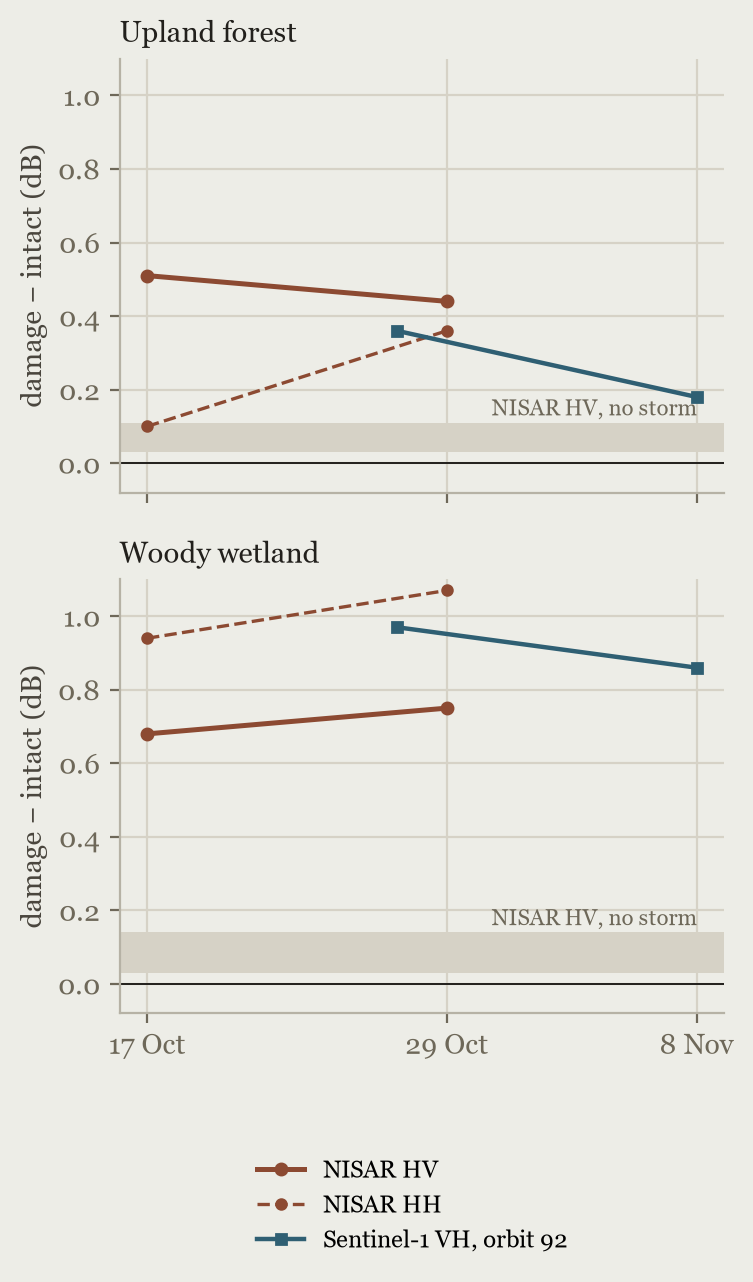
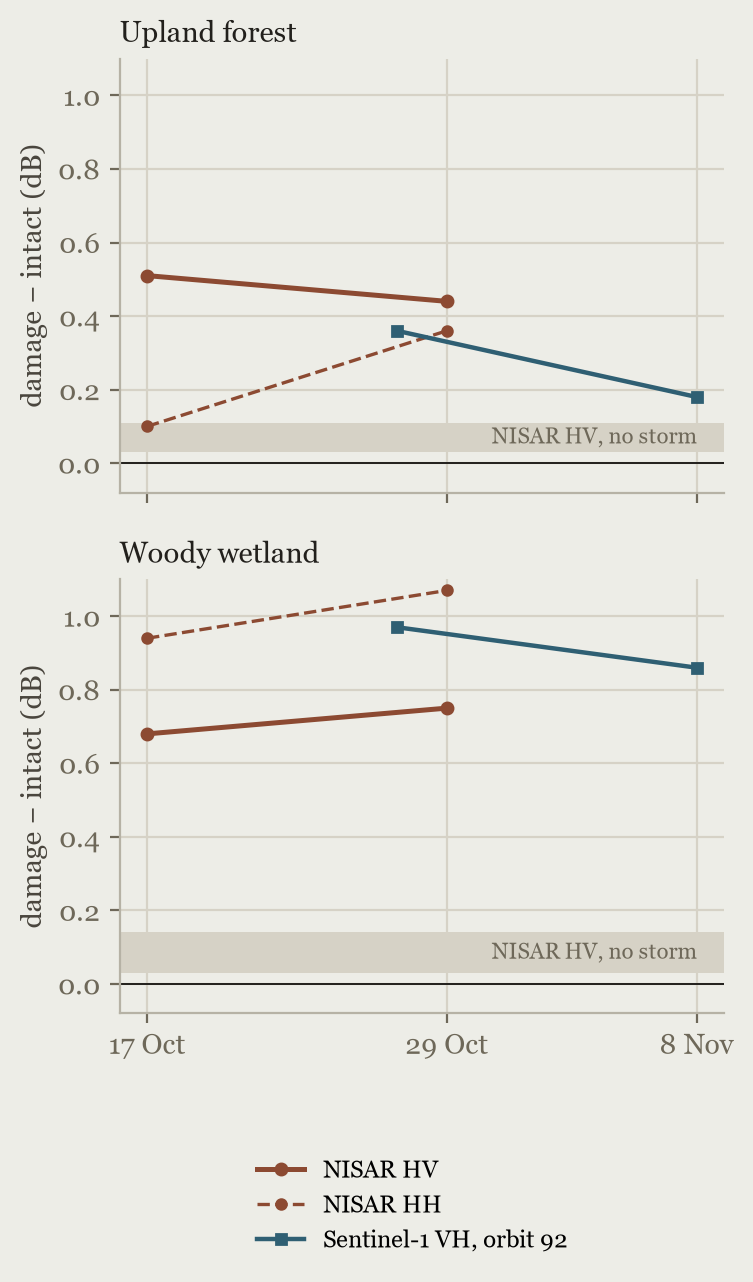
Site charts: storm-vs-control legend moved above the bars (one row wide, stacked on phone); wind legend above the plot, Jay label with leader; persistence no-storm label inside its band; automatic overlap check in site_figures.py

Changed region(s): [[0.6414, 0.6864, 0.9163, 0.7488], [0.6414, 0.312, 0.9163, 0.3432]]

diff --git a/site/index.html b/site/index.html
@@ -361,8 +361,8 @@
     <p class="auc-note">AUC measures how well a layer separates damaged from intact forest; 0.5 is no better than chance and 1.0 is perfect.</p>
     <figure>
       <picture>
-        <source media="(max-width: 620px)" srcset="figures/storm_vs_control_narrow.png" width="761" height="976">
-        <img class="fig" src="figures/storm_vs_control.png" alt="Bar chart. NISAR HV separates damaged from intact forest with AUC 0.82 at 100 m across the storm, against 0.57 and 0.58 for two windows with no storm; on upland forest 0.72 against 0.52 and 0.58." width="1257" height="611" loading="lazy">
+        <source media="(max-width: 620px)" srcset="figures/storm_vs_control_narrow.png" width="761" height="928">
+        <img class="fig" src="figures/storm_vs_control.png" alt="Bar chart. NISAR HV separates damaged from intact forest with AUC 0.82 at 100 m across the storm, against 0.57 and 0.58 for two windows with no storm; on upland forest 0.72 against 0.52 and 0.58." width="1337" height="685" loading="lazy">
       </picture>
       <p class="caption">How well NISAR HV change on one ascending track separates damaged from intact forest (0.5 is chance), for the 12 days across the storm and for two 12-day windows with no storm, with the held-out areas left out. Upland means blocks that are at least 90 percent pine or hardwood on ground more than 5 m above the nearest stream.</p>
     </figure>
@@ -389,7 +389,7 @@
     <figure>
       <picture>
         <source media="(max-width: 620px)" srcset="figures/wind_distance_narrow.png" width="838" height="913">
-        <img class="fig" src="figures/wind_distance.png" alt="Line chart of the share of forest in the damage mask by distance from the track on both sides. West of the track it peaks at about 30 percent 60 to 65 km out; east of the track it stays below 1 percent in upland forest, with a small wetland rise 55 to 70 km out. The three strongest gust stations are 44 to 56 km west." width="1386" height="692" loading="lazy">
+        <img class="fig" src="figures/wind_distance.png" alt="Line chart of the share of forest in the damage mask by distance from the track on both sides. West of the track it peaks at about 30 percent 60 to 65 km out; east of the track it stays below 1 percent in upland forest, with a small wetland rise 55 to 70 km out. The three strongest gust stations are 44 to 56 km west." width="1386" height="740" loading="lazy">
       </picture>
       <p class="caption">Share of forest in the Sentinel-2 damage mask by distance from the NHC best track, in 5 km bins, on both sides of the track, with the held-out areas left out. Triangles are station peak gusts; hollow ones reported fewer than ten times during the storm and may have failed.</p>
     </figure>

diff --git a/scripts/site_figures.py b/scripts/site_figures.py
@@ -2,26 +2,68 @@
 From docs/site/site_numbers.json (controls numbers recomputed with the held-out block and aerial tip excluded) and
 docs/wind/wind.json (also excluding them). Writes site/figures/*.png at 2x."""
 import json, os
-import numpy as np, matplotlib
+import numpy as np, matplotlib, matplotlib.text
 matplotlib.use("Agg"); import matplotlib.pyplot as plt
 os.makedirs("site/figures", exist_ok=True)
 PAPER, INK, BODY, MUTED, RULE, HAIR, ACC, MOD, WET = "#EDEDE7", "#22201C", "#4A463E", "#6E6859", "#B6B2A5", "#D6D2C6", "#7D5F33", "#8C4A32", "#2F5F73"
 plt.rcParams.update({"font.family": ["Georgia", "DejaVu Serif"], "font.size": 10.5, "axes.facecolor": PAPER, "figure.facecolor": PAPER, "savefig.facecolor": PAPER,
                      "axes.edgecolor": RULE, "axes.labelcolor": BODY, "xtick.color": MUTED, "ytick.color": MUTED, "axes.spines.top": False, "axes.spines.right": False,
                      "axes.grid": True, "grid.color": HAIR, "grid.linewidth": 0.8, "axes.axisbelow": True, "legend.frameon": False})
-def save(fig, name): fig.savefig(f"site/figures/{name}", dpi=200, bbox_inches="tight"); plt.close(fig)
+def check(fig, name):
+    """Overlap check before saving: every legend must sit outside every plot area and inside the figure's width; no two
+    texts may overlap; no in-plot text may touch a bar, a data line or marker, or cross the axes frame. Grid lines are ignored."""
+    fig.canvas.draw(); r = fig.canvas.get_renderer(); probs = []
+    axes = fig.axes; abox = [a.get_window_extent(r) for a in axes]
+    legs = [l for l in [a.get_legend() for a in axes] + fig.legends if l is not None]
+    texts = []
+    for a in axes:
+        texts += [(t, "plot") for t in a.texts] + [(t.label1 if side == 1 else t.label2, "tick") for ax_, (lo, hi) in ((a.xaxis, sorted(a.get_xlim())), (a.yaxis, sorted(a.get_ylim()))) if ax_.get_visible() for t in ax_.get_major_ticks() if lo - 1e-9 <= t.get_loc() <= hi + 1e-9 for side in (1, 2) if (t.label1 if side == 1 else t.label2).get_visible()] + [(t, "label") for t in (a.xaxis.label, a.yaxis.label, a.title)]
+    texts += [(t, "fig") for t in fig.texts]
+    for l in legs: texts += [(t, "legend") for t in l.get_texts()]
+    texts = [(t, k, matplotlib.text.Text.get_window_extent(t, r)) for t, k in texts if t.get_visible() and t.get_text().strip()]
+    for l in legs:
+        lb = l.get_window_extent(r)
+        for a, b in zip(axes, abox):
+            if lb.overlaps(b): probs.append(f"legend overlaps plot area of '{a.get_title() or a.get_ylabel()}'")
+        for t, k, tb in texts:
+            if k != "legend" and lb.overlaps(tb): probs.append(f"legend overlaps text '{t.get_text()}'")
+        fw = fig.bbox.width; x0 = min(b.x0 for b in abox + [t[2] for t in texts if t[1] != "legend"])
+        x1 = max(b.x1 for b in abox + [t[2] for t in texts if t[1] != "legend"])
+        if lb.x0 < x0 - 1 or lb.x1 > x1 + 1: probs.append(f"legend runs past the chart edge ({lb.x0:.0f}-{lb.x1:.0f} vs {x0:.0f}-{x1:.0f} px)")
+    for i in range(len(texts)):
+        for j in range(i + 1, len(texts)):
+            if texts[i][2].overlaps(texts[j][2]): probs.append(f"text '{texts[i][0].get_text()}' overlaps '{texts[j][0].get_text()}'")
+    for t, k, tb in texts:
+        if k != "plot": continue
+        ax_ = t.axes; b = ax_.get_window_extent(r)
+        if not (b.x0 <= tb.x0 and tb.x1 <= b.x1 and b.y0 <= tb.y0 and tb.y1 <= b.y1): probs.append(f"text '{t.get_text()}' crosses the axes frame")
+        for a in axes:
+            for p_ in a.patches:
+                if p_.get_window_extent(r).overlaps(tb) and p_.get_window_extent(r).height < b.height * 0.99 and p_.get_window_extent(r).width < b.width * 0.99:
+                    probs.append(f"text '{t.get_text()}' touches a bar")
+            for ln in a.lines:
+                if hasattr(t, "xy") and len(ln.get_xdata()) == 1 and np.allclose([ln.get_xdata()[0], ln.get_ydata()[0]], t.xy): continue   # its own marker
+                xy = ln.get_transform().transform(np.column_stack(ln.get_data()).astype(float))
+                pts = np.concatenate([np.linspace(xy[q], xy[q + 1], 200) for q in range(len(xy) - 1)]) if len(xy) > 1 and ln.get_linestyle() not in ("None", "") else xy
+                rad = (ln.get_markersize() / 2 if ln.get_marker() not in (None, "None", "") else 0) * fig.dpi / 72 + 1.5 * fig.dpi / 72   # 1.5 pt clearance
+                hit = ((pts[:, 0] > tb.x0 - rad) & (pts[:, 0] < tb.x1 + rad) & (pts[:, 1] > tb.y0 - rad) & (pts[:, 1] < tb.y1 + rad)).any()
+                if hit: probs.append(f"text '{t.get_text()}' touches a line/marker ({ln.get_label()})")
+    print(name, "OK" if not probs else "PROBLEMS: " + "; ".join(sorted(set(probs))), flush=True)
+    return probs
+def save(fig, name): check(fig, name); fig.savefig(f"site/figures/{name}", dpi=200, bbox_inches="tight"); plt.close(fig)
 # 1. storm vs no-storm (NISAR HV, track 76 single 12-day pairs)
 N = json.load(open("docs/site/site_numbers.json"))   # held-out block and aerial tip excluded (site_numbers.py)
 sv = N["storm_vs_control_HV"]
 g = lambda dom, res: (sv[f"storm | {dom} | {res} m"], sv[f"nostorm_2026 | {dom} | {res} m"], sv[f"nostorm_2025 | {dom} | {res} m"])
 groups = [("All forest, 100 m",) + g("all forest", 100), ("Upland forest, 100 m",) + g("strict upland", 100), ("All forest, 30 m",) + g("all forest", 30)]
-fig, ax = plt.subplots(figsize=(7.2, 3.4)); w = 0.26
+fig, ax = plt.subplots(figsize=(7.6, 3.5)); w = 0.26
 for k, (lab, a, c, b) in enumerate(groups):
     for j, (v, col, nm) in enumerate(((a, MOD, "Storm pair, 5 to 17 Oct 2026"), (c, MUTED, "No storm, 11 to 23 Sep 2026"), (b, RULE, "No storm, 22 Oct to 3 Nov 2025"))):
         ax.bar(k + (j - 1) * w, v - 0.5, w * 0.92, bottom=0.5, color=col, label=nm if k == 0 else None)
         ax.text(k + (j - 1) * w, v + 0.008, f"{v:.2f}", ha="center", fontsize=8.5, color=BODY)
 ax.set_xticks(range(len(groups)), [g[0] for g in groups]); ax.set_ylim(0.45, 0.88); ax.axhline(0.5, color=INK, lw=0.8)
-ax.set_ylabel("AUC, damage vs intact"); ax.legend(fontsize=8.5, loc="upper right"); ax.grid(axis="x", visible=False)
+ax.set_ylabel("AUC, damage vs intact"); ax.grid(axis="x", visible=False)
+ax.legend(fontsize=8.5, loc="lower left", bbox_to_anchor=(0, 1.03), ncol=3, borderaxespad=0, handlelength=1.2, columnspacing=1.2)   # one row above the bars
 save(fig, "storm_vs_control.png")
 # 2. persistence
 PN = N["persistence_30m"]
@@ -39,7 +81,7 @@ for a, dom, title in zip(axs, ("upland | 30 m", "woody_wetland | 30 m"), ("Uplan
     a.plot([day("10-17"), day("10-29")], [rec["NISAR HH t76 2026-10-17 (pre 10-05)"][0], rec["NISAR HH t76 2026-10-29 (pre 10-05)"][0]], "--o", color=MOD, lw=1.2, ms=3.5, label="NISAR HH")
     a.plot([day("10-27"), day("11-08")], [rec["S1 VH o92 2026-10-27"][0], rec["S1 VH o92 2026-11-08"][0]], "-s", color=WET, lw=1.6, ms=3.5, label="Sentinel-1 VH, orbit 92")
     lo = min(rec["NISAR HV no-storm B (2025)"][0], rec["NISAR HV no-storm C (2026 pre)"][0]); hi = max(rec["NISAR HV no-storm B (2025)"][0], rec["NISAR HV no-storm C (2026 pre)"][0])
-    a.axhspan(lo - 0.02, hi + 0.02, color=HAIR, lw=0); a.text(day("11-08"), hi + 0.035, "NISAR HV, no-storm pairs", fontsize=8, color=MUTED, ha="right")
+    a.axhspan(lo - 0.02, hi + 0.02, color=HAIR, lw=0); a.text(day("11-08"), (lo + hi) / 2, "NISAR HV, no-storm pairs", fontsize=8, color=MUTED, ha="right", va="center")   # inside the band, clear of the 8 Nov point
     a.axhline(0, color=INK, lw=0.7); a.set_title(title, fontsize=11, color=INK, loc="left")
     a.set_xticks([day(x) for x in ("10-17", "10-29", "11-08")], ["17 Oct", "29 Oct", "8 Nov"], fontsize=8.5)
 axs[0].set_ylabel("damage minus intact (dB)")
@@ -59,11 +101,14 @@ for s in W["stations"]:
     a2.plot(s["signed_distance_km"], s["gust_kt"], "^", ms=6.5, mfc="none" if sparse else MOD, mec=MOD)
 for s in W["stations"]:
     if s["short"] in ("Jay", "Oriole Beach", "Whiting Field South", "Eglin AFB", "Destin"):
+        if s["short"] == "Jay":   # left of the wetland peak, with a leader, clear of Oriole Beach
+            a2.annotate("Jay", (s["signed_distance_km"], s["gust_kt"]), xytext=(-40, 8), textcoords="offset points", fontsize=8, color=MOD, arrowprops=dict(arrowstyle="-", color=MOD, lw=0.6, shrinkB=4)); continue
         off = (4, -12) if s["short"] == "Whiting Field South" else (4, 4)
         a2.annotate(s["short"].replace("Whiting Field South", "Whiting Field"), (s["signed_distance_km"], s["gust_kt"]), xytext=off, textcoords="offset points", fontsize=8, color=MOD)
 a2.set_ylim(0, 120); a2.set_ylabel("peak gust (kt), triangles", color=MOD); a2.tick_params(colors=MOD)
 ax.set_xlabel("distance from the best track (km), negative = west, positive = east"); ax.set_ylabel("forest in damage mask (%)")
-ax.set_ylim(0, 50); ax.legend(fontsize=8.5, loc="upper right"); ax.set_xlim(-108, 76)
+ax.set_ylim(0, 50); ax.set_xlim(-108, 76)
+ax.legend(fontsize=8.5, loc="lower left", bbox_to_anchor=(0, 1.03), ncol=3, borderaxespad=0, handlelength=1.8, columnspacing=1.6)   # one row above the plot
 save(fig, "wind_distance.png")
 # ---- narrow versions for phones (served below 620 px by <picture>), same data, larger relative type
 plt.rcParams.update({"font.size": 10})
@@ -74,7 +119,7 @@ for k, (lab, a, c, b) in enumerate(groups):
         ax.bar(k + (j - 1) * w, v - 0.5, w * 0.92, bottom=0.5, color=col, label=nm if k == 0 else None)
         ax.text(k + (j - 1) * w, v + 0.008, f"{v:.2f}", ha="center", fontsize=7.5, color=BODY)
 ax.set_xticks(range(3), short); ax.set_ylim(0.45, 0.88); ax.axhline(0.5, color=INK, lw=0.8); ax.grid(axis="x", visible=False)
-ax.set_ylabel("AUC, damage vs intact"); ax.legend(fontsize=8.5, loc="upper center", bbox_to_anchor=(0.5, -0.2), ncol=1)
+ax.set_ylabel("AUC, damage vs intact"); ax.legend(fontsize=8.5, loc="lower left", bbox_to_anchor=(0, 1.03), ncol=1, borderaxespad=0, handlelength=1.4)   # stacked above the bars
 save(fig, "storm_vs_control_narrow.png")
 fig, axs = plt.subplots(2, 1, figsize=(3.9, 6.2), sharex=True)
 for a, dom, title in zip(axs, ("upland | 30 m", "woody_wetland | 30 m"), ("Upland forest", "Woody wetland")):
@@ -83,7 +128,7 @@ for a, dom, title in zip(axs, ("upland | 30 m", "woody_wetland | 30 m"), ("Uplan
     a.plot([day("10-17"), day("10-29")], [rec["NISAR HH t76 2026-10-17 (pre 10-05)"][0], rec["NISAR HH t76 2026-10-29 (pre 10-05)"][0]], "--o", color=MOD, lw=1.2, ms=3.5, label="NISAR HH")
     a.plot([day("10-27"), day("11-08")], [rec["S1 VH o92 2026-10-27"][0], rec["S1 VH o92 2026-11-08"][0]], "-s", color=WET, lw=1.6, ms=3.5, label="Sentinel-1 VH, orbit 92")
     lo = min(rec["NISAR HV no-storm B (2025)"][0], rec["NISAR HV no-storm C (2026 pre)"][0]); hi = max(rec["NISAR HV no-storm B (2025)"][0], rec["NISAR HV no-storm C (2026 pre)"][0])
-    a.axhspan(lo - 0.02, hi + 0.02, color=HAIR, lw=0); a.text(day("11-08"), hi + 0.04, "NISAR HV, no storm", fontsize=8, color=MUTED, ha="right")
+    a.axhspan(lo - 0.02, hi + 0.02, color=HAIR, lw=0); a.text(day("11-08"), (lo + hi) / 2, "NISAR HV, no storm", fontsize=8, color=MUTED, ha="right", va="center")
     a.axhline(0, color=INK, lw=0.7); a.set_title(title, fontsize=10.5, color=INK, loc="left"); a.set_ylim(-0.08, 1.1)
     a.set_ylabel("damage − intact (dB)")
 axs[1].set_xticks([day(x) for x in ("10-17", "10-29", "11-08")], ["17 Oct", "29 Oct", "8 Nov"])
